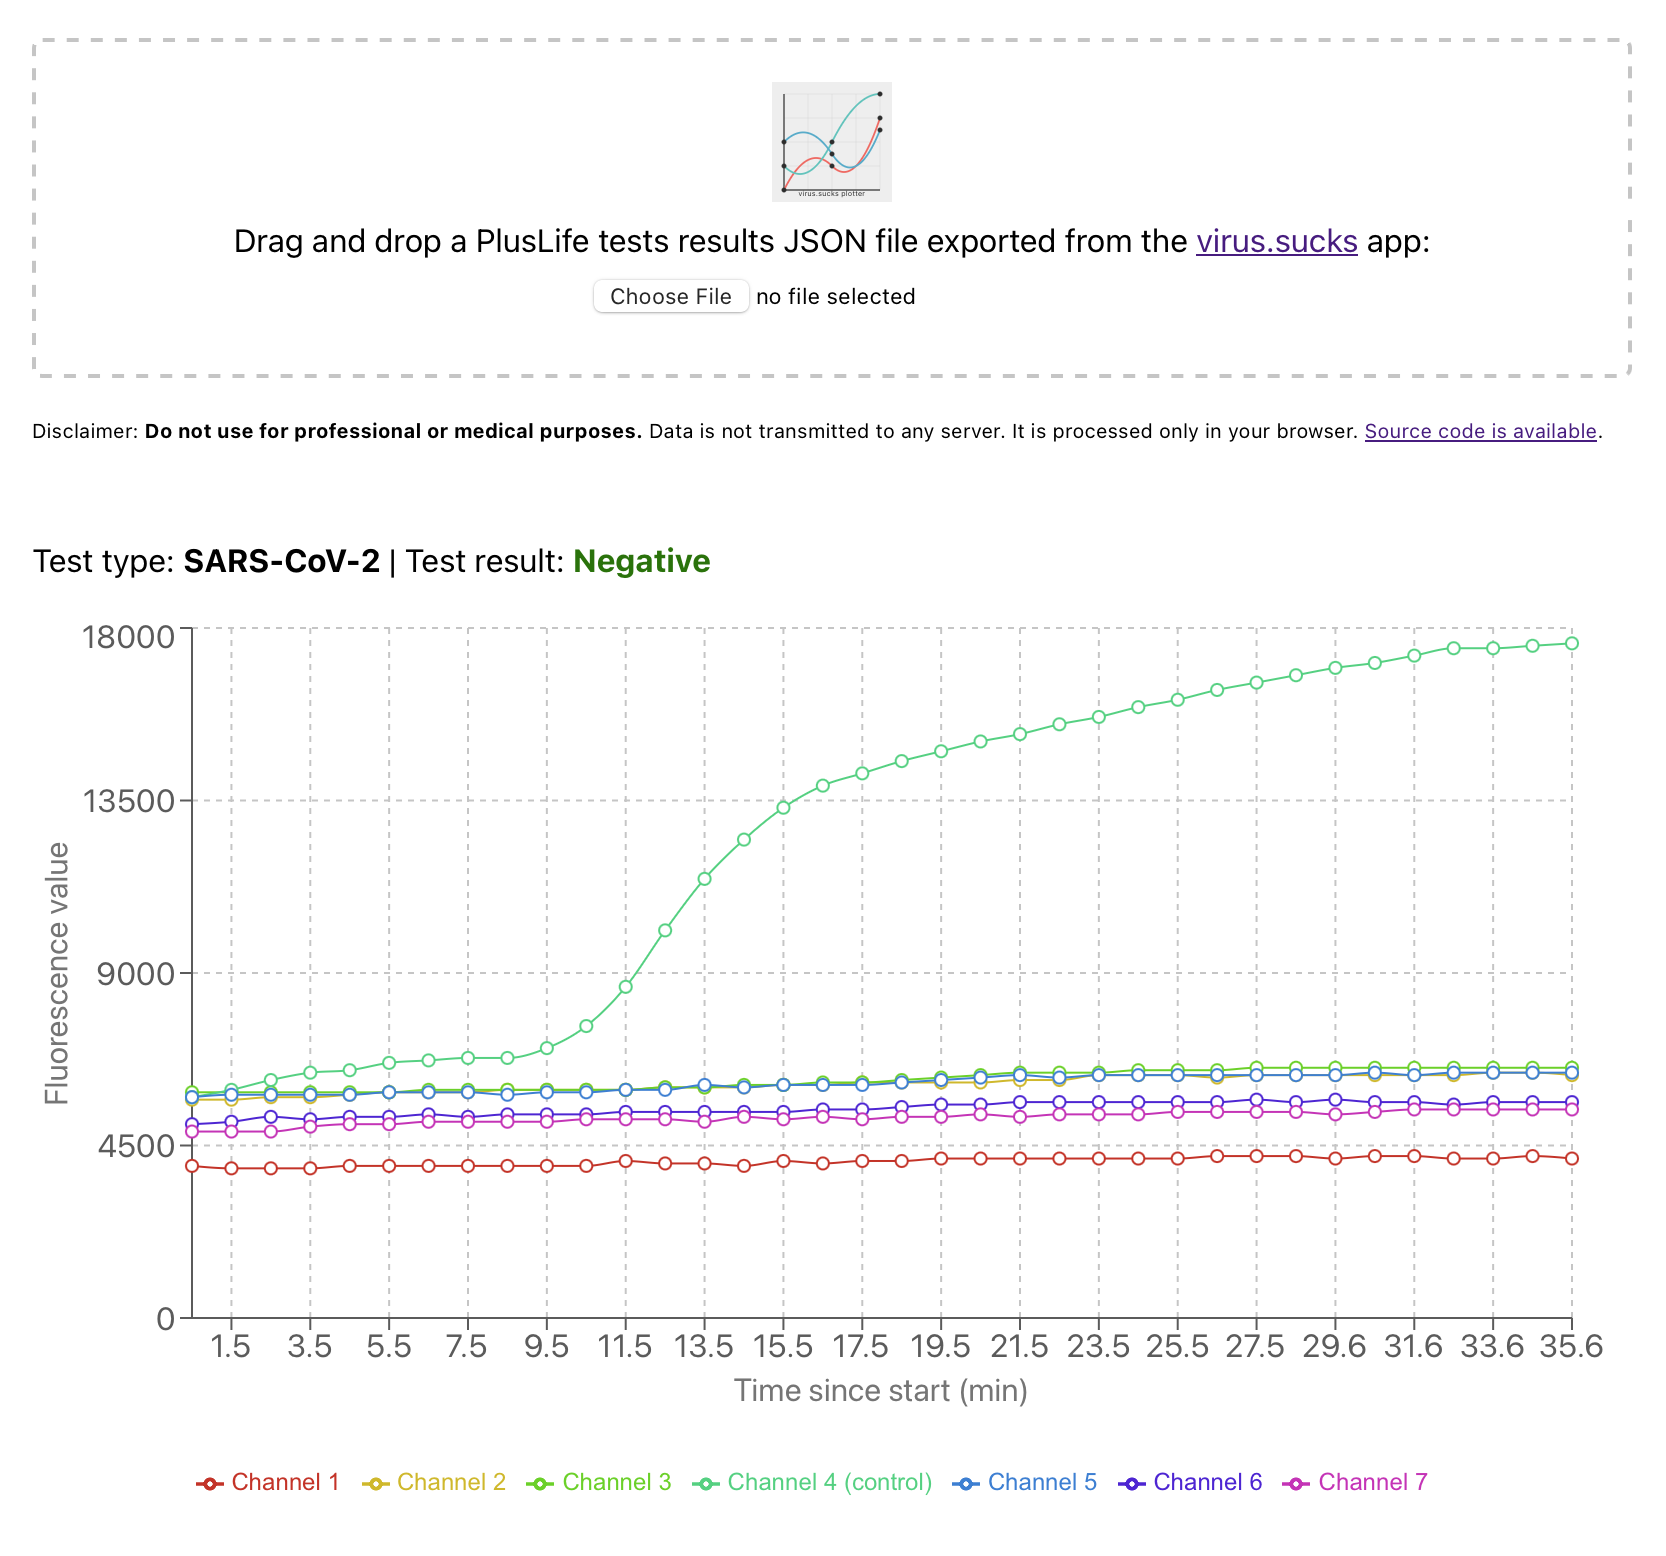
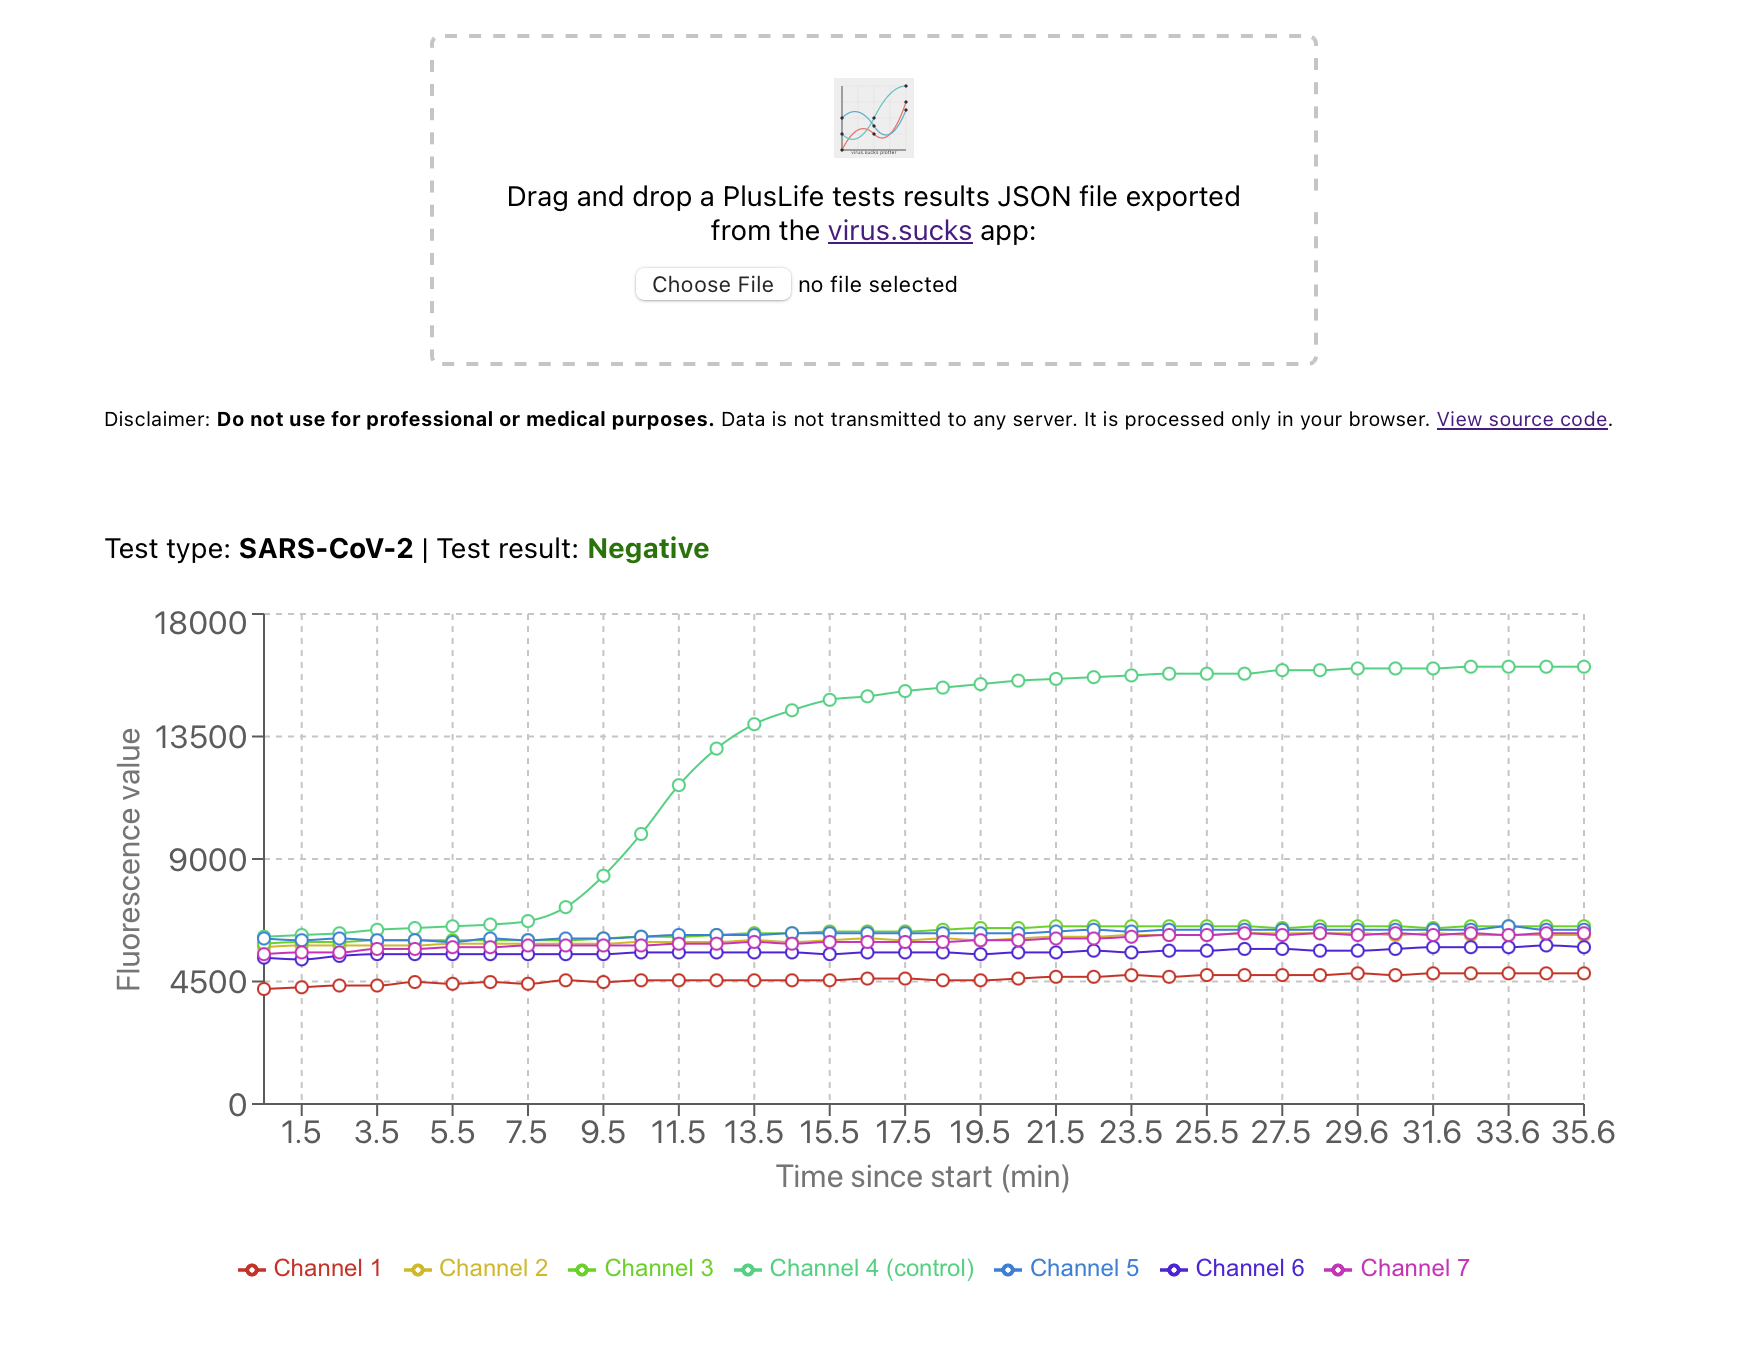
Better mobile compatibility. Updated screenshot

diff --git a/src/SimpleLineChart.js b/src/SimpleLineChart.js
@@ -1,6 +1,7 @@
 import React, { useState, useMemo, useCallback } from 'react';
 import { LineChart, Line, XAxis, YAxis, CartesianGrid, Tooltip, Legend } from 'recharts';
 import { ReactComponent as Logo } from './logo.svg';
+import { ResponsiveContainer } from 'recharts';
 
 const SimpleLineChart = () => {
   const [data, setData] = useState(null);
@@ -114,7 +115,7 @@ const SimpleLineChart = () => {
         <input type="file" onChange={handleFileUpload} accept=".json" />
       </div>
       <div className='disclaimer'>
-        Disclaimer: <span className='disclaimer-bold'>Do not use for professional or medical purposes.</span> Data is not transmitted to any server. It is processed only in your browser. <a href="https://github.com/gacevedo/virus-sucks-plotter" target="_blank" rel="noopener noreferrer">Source code is available</a>.
+        Disclaimer: <span className='disclaimer-bold'>Do not use for professional or medical purposes.</span> Data is not transmitted to any server. It is processed only in your browser. <a href="https://github.com/gacevedo/virus-sucks-plotter" target="_blank" rel="noopener noreferrer">View source code</a>.
       </div>
       {data && (
         <div className='test-info'>
@@ -126,35 +127,37 @@ const SimpleLineChart = () => {
         </div>
       )}
       {data && (
-        <LineChart 
-          width={800} 
-          height={400}
-          data={processedData}
-          margin={{ top: 5, right: 30, left: 20, bottom: 5 }}
-        >
-          <CartesianGrid strokeDasharray="3 3" />
-          <XAxis 
-            dataKey="samplingTime" 
-            tickFormatter={(value) => value.toFixed(1)}
-            label={{ value: "Time since start (min)", position: "bottom", offset: 0 }}
-          />
-          <YAxis
-            label={{ value: "Fluorescence value", angle: -90, position: "insideLeft", offset: -8, style: { textAnchor: 'middle' } }}
-          />
-          <Tooltip />
-          <Legend 
-            wrapperStyle={{ fontSize: '12px', fontFamily: 'Arial, sans-serif' }}
-          />
-          {channels.map((channel, index) => (
-            <Line
-              key={channel}
-              type="monotone"
-              dataKey={channel.toString()}
-              stroke={`hsl(${(index * 360) / channels.length}, 70%, 50%)`}
-              name={channel === 3 ? `Channel ${channel + 1} (control)` : `Channel ${channel + 1}`}
+        <ResponsiveContainer width="100%" height={300}>
+          <LineChart 
+            width={800} 
+            height={400}
+            data={processedData}
+            margin={{ top: 5, right: 30, left: 20, bottom: 5 }}
+          >
+            <CartesianGrid strokeDasharray="3 3" />
+            <XAxis 
+              dataKey="samplingTime" 
+              tickFormatter={(value) => value.toFixed(1)}
+              label={{ value: "Time since start (min)", position: "bottom", offset: 0 }}
             />
-          ))}
-        </LineChart>
+            <YAxis
+              label={{ value: "Fluorescence value", angle: -90, position: "insideLeft", offset: -8, style: { textAnchor: 'middle' } }}
+            />
+            <Tooltip />
+            <Legend 
+              wrapperStyle={{ fontSize: '12px', fontFamily: 'Arial, sans-serif' }}
+            />
+            {channels.map((channel, index) => (
+              <Line
+                key={channel}
+                type="monotone"
+                dataKey={channel.toString()}
+                stroke={`hsl(${(index * 360) / channels.length}, 70%, 50%)`}
+                name={channel === 3 ? `Channel ${channel + 1} (control)` : `Channel ${channel + 1}`}
+              />
+            ))}
+          </LineChart>
+        </ResponsiveContainer>
       )}
     </div>
   );

diff --git a/src/App.css b/src/App.css
@@ -1,7 +1,10 @@
 .chart-container {
   position: relative;
-  width: 800px;
+  width: 100%;
+  max-width: 800px;
   margin: 20px auto;
+  padding: 0 15px;
+  box-sizing: border-box;
 }
 
 .file-picker {
@@ -13,6 +16,9 @@
   border-radius: 5px;
   margin-bottom: 20px;
   transition: all 0.3s ease;
+  width: 100%;
+  max-width: 400px;
+  margin: 0 auto 20px;
 }
 
 .file-picker.dragging {
@@ -21,14 +27,15 @@
 }
 
 .file-picker .logo {
-  width: 60px;
-  height: 60px;
+  width: 40px;
+  height: 40px;
   margin-bottom: 10px;
 }
 
 .file-picker span {
   margin-bottom: 10px;
   text-align: center;
+  font-size: 14px;
 }
 
 .file-picker input[type="file"] {
@@ -59,6 +66,7 @@
 
 .test-info {
   margin-top: 50px;
+  font-size: 14px;
 }
 
 .test-info .test-type {
@@ -67,4 +75,27 @@
 
 .disclaimer-bold {
   font-weight: bold;
+}
+
+@media (max-width: 600px) {
+  .chart-container {
+    margin: 10px auto;
+  }
+
+  .file-picker {
+    padding: 10px;
+  }
+
+  .file-picker span {
+    font-size: 14px;
+  }
+
+  .disclaimer {
+    font-size: 8px;
+  }
+
+  .test-info {
+    margin-top: 30px;
+    font-size: 14px;
+  }
 }
